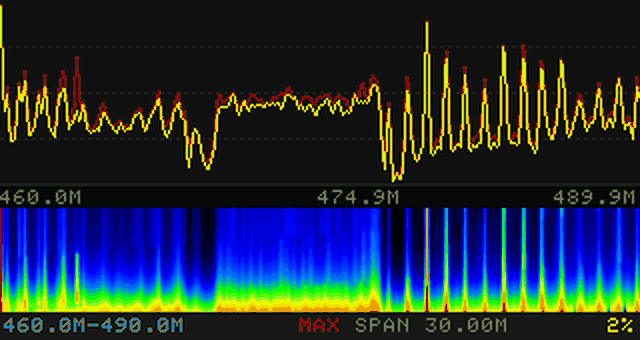
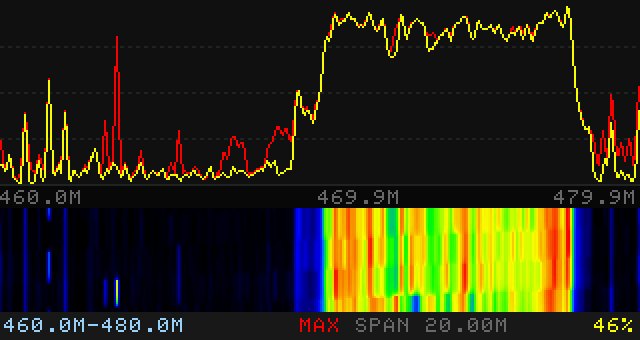
Refresh the README screenshots

diff --git a/README.md b/README.md
@@ -17,13 +17,8 @@ and demodulates FM / NFM / AM / USB / LSB audio through ALSA.
 
 | | |
 |:---:|:---:|
-| ![Spectrum page](images/spectrum.png) | ![ADSB radar](images/radar.png) |
-| Wideband spectrum page: swept 460–490 MHz with max hold | ADSB radar view with range rings and a callsign plate |
-
-| | |
-|:---:|:---:|
-| ![ADSB detail](images/detail.png) | ![On-screen keys](images/sdr.png) |
-| Aircraft detail view with the flight display | Real-time spectrum, waterfall and the status bar |
+| ![Wideband spectrum page](images/spectrum.png) | ![SDR page](images/sdr.png) |
+| Wideband spectrum page: 460–480 MHz sweep with max hold | SDR page: 103.6 MHz FM with spectrum and waterfall |
 
 ![ADSB radar, PFD and settings](images/adsb-showcase.png)
 

diff --git a/README.zh-CN.md b/README.zh-CN.md
@@ -16,13 +16,8 @@ framebuffer，音频解调（FM / NFM / AM / USB / LSB）通过 ALSA 输出。
 
 | | |
 |:---:|:---:|
-| ![频谱页](images/spectrum.png) | ![ADSB 雷达](images/radar.png) |
-| 宽带频谱页：460–490 MHz 扫描 + 峰值保持 | ADSB 雷达视图：距离环与呼号大字 |
-
-| | |
-|:---:|:---:|
-| ![ADSB 详情](images/detail.png) | ![按键说明](images/sdr.png) |
-| 飞机详情页（PFD） | 实时频谱、瀑布与状态栏 |
+| ![宽带频谱页](images/spectrum.png) | ![SDR 页面](images/sdr.png) |
+| 宽带频谱页：460–480 MHz 扫描 + 峰值保持 | SDR 页面：103.6 MHz FM 频谱与瀑布 |
 
 ![ADSB 雷达、PFD 与设置](images/adsb-showcase.png)
 
